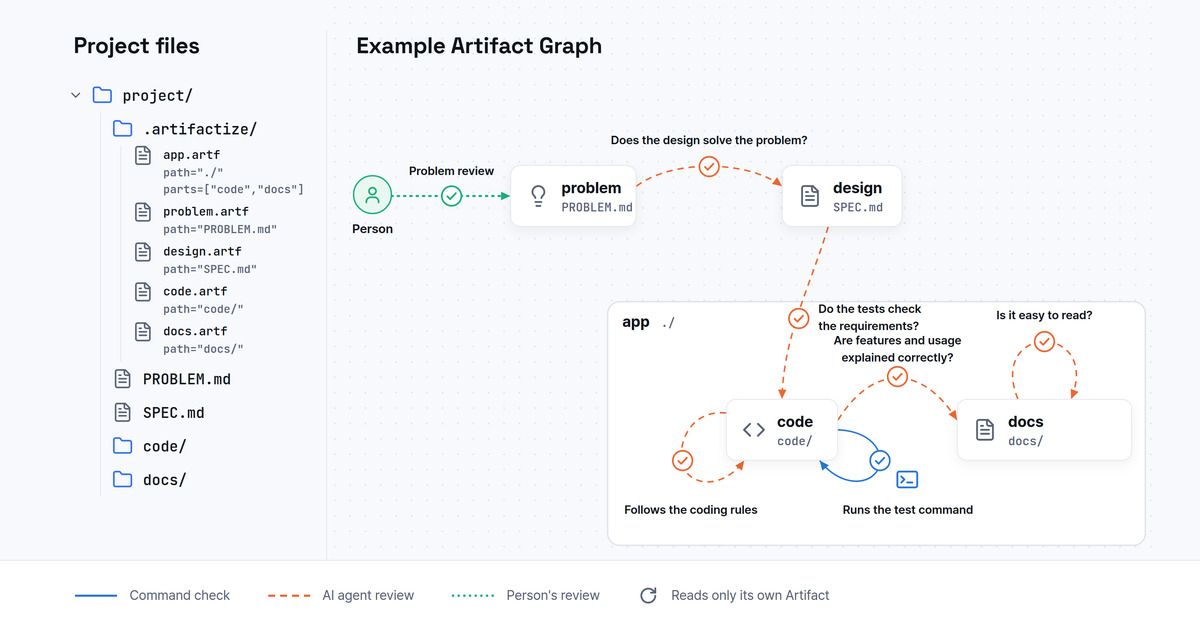
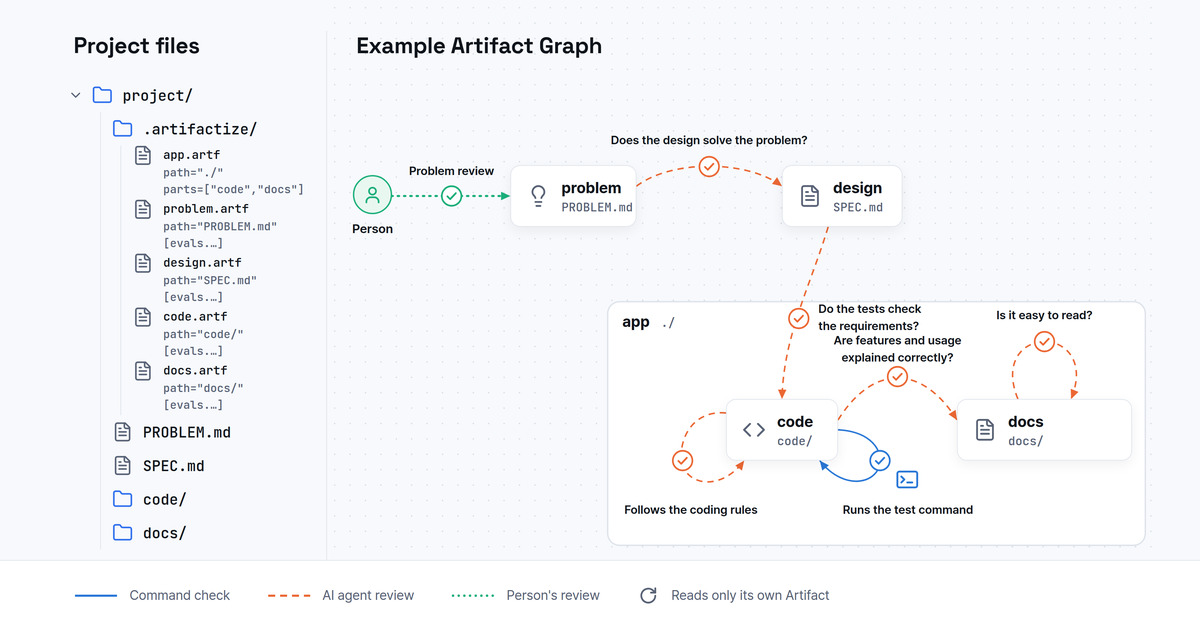
Dogfood round 13: a Run's saved repository path is read back with its own decoding everywhere; the graph example marks where each file's checks are declared

Changed region(s): [[0.0925, 0.3016, 0.2158, 0.8746]]

diff --git a/assets/others/graph-example.html b/assets/others/graph-example.html
@@ -91,7 +91,7 @@
   .tree .file { color: var(--dim); }
   .tree .artf { color: var(--text); height: 27px; font-size: 17px; }
   .tree .artf .file { color: var(--dim); }
-  .tree .definition { margin-bottom: 6px; }
+  .tree .definition { margin-bottom: 2px; }
   .tree .definition code { flex-basis: 100%; margin-left: 44px; color: var(--dim); font: 500 16px/24px var(--mono); }
   .tree svg { width: 30px; height: 30px; flex: none; }
 
@@ -213,10 +213,10 @@
           <li><span><svg class="folder"><use href="#i-folder"/></svg>.artifactize/</span>
             <ul>
               <li class="definition"><span class="artf"><svg class="file"><use href="#i-file"/></svg>app.artf</span><code>path="./"</code><code>parts=["code","docs"]</code></li>
-              <li class="definition"><span class="artf"><svg class="file"><use href="#i-file"/></svg>problem.artf</span><code>path="PROBLEM.md"</code></li>
-              <li class="definition"><span class="artf"><svg class="file"><use href="#i-file"/></svg>design.artf</span><code>path="SPEC.md"</code></li>
-              <li class="definition"><span class="artf"><svg class="file"><use href="#i-file"/></svg>code.artf</span><code>path="code/"</code></li>
-              <li class="definition"><span class="artf"><svg class="file"><use href="#i-file"/></svg>docs.artf</span><code>path="docs/"</code></li>
+              <li class="definition"><span class="artf"><svg class="file"><use href="#i-file"/></svg>problem.artf</span><code>path="PROBLEM.md"</code><code>[evals.…]</code></li>
+              <li class="definition"><span class="artf"><svg class="file"><use href="#i-file"/></svg>design.artf</span><code>path="SPEC.md"</code><code>[evals.…]</code></li>
+              <li class="definition"><span class="artf"><svg class="file"><use href="#i-file"/></svg>code.artf</span><code>path="code/"</code><code>[evals.…]</code></li>
+              <li class="definition"><span class="artf"><svg class="file"><use href="#i-file"/></svg>docs.artf</span><code>path="docs/"</code><code>[evals.…]</code></li>
             </ul>
           </li>
           <li><span><svg class="file"><use href="#i-file"/></svg>PROBLEM.md</span></li>

diff --git a/crates/artifactize-core/src/store/reader.rs b/crates/artifactize-core/src/store/reader.rs
@@ -324,9 +324,14 @@ impl Cache {
     ) -> Result<Option<(RunView, Vec<RequestView>)>, Error> {
         let saved = self.selected.take().filter(|saved| &saved.run.id == id);
         // The state's text only when its revision moved, the definitions only on opening.
-        type RunRow = (String, i64, Option<String>, Option<String>);
+        type RunRow = (std::path::PathBuf, i64, Option<String>, Option<String>);
         let decode = |row: &rusqlite::Row<'_>| -> rusqlite::Result<RunRow> {
-            Ok((row.get(0)?, row.get(1)?, row.get(2)?, row.get(3)?))
+            Ok((
+                super::path_column(row, 0)?,
+                row.get(1)?,
+                row.get(2)?,
+                row.get(3)?,
+            ))
         };
         let (repo, revision, data, definitions) = match &saved {
             Some(saved) => db.query_row(
@@ -344,8 +349,7 @@ impl Cache {
         }
         .optional()?
         .ok_or_else(|| Error::Invalid("Run not found.".into()))?;
-        outside_workspace(Path::new(&repo), state)
-            .map_err(|error| Error::Invalid(error.to_string()))?;
+        outside_workspace(&repo, state).map_err(|error| Error::Invalid(error.to_string()))?;
         let (mut selected, state_changed) = match (saved, data) {
             (Some(saved), None) => (saved, false),
             // The Run's state changed; its definitions did not.

diff --git a/crates/artifactize-core/src/store/requests.rs b/crates/artifactize-core/src/store/requests.rs
@@ -326,10 +326,9 @@ pub(crate) async fn read_request_repo_by_id(
                 .query_row(
                     "SELECT r.repo FROM requests q JOIN runs r ON r.id=q.run_id WHERE q.id=?",
                     [&id],
-                    |row| row.get::<_, String>(0),
+                    |row| super::path_column(row, 0),
                 )
-                .optional()?
-                .map(std::path::PathBuf::from);
+                .optional()?;
             transaction.commit()?;
             if let Some(repo) = &repo {
                 crate::workspace::outside_workspaces(std::iter::once(repo.as_path()), &state)
@@ -438,7 +437,8 @@ async fn read_with_repo(
                         }
                     }
                 };
-                let repo = std::path::PathBuf::from(repo);
+                let repo = artifactize_tools::files::path_from_text(&repo)
+                    .map_err(|error| Error::Invalid(error.to_string()))?;
                 repos.push(repo.clone());
                 indexes.insert(id, (index, repo));
             }

diff --git a/crates/artifactize-core/src/store/run_read.rs b/crates/artifactize-core/src/store/run_read.rs
@@ -60,13 +60,13 @@ async fn snapshot<T: Send + 'static>(
 
 /// The Run with its definitions, but none of its requests.
 fn saved_run(db: &rusqlite::Connection, state: &Path, id: &RunId) -> Result<Run, Error> {
-    let saved: Option<(String, String)> = db
+    let saved: Option<(std::path::PathBuf, String)> = db
         .query_row("SELECT repo,data FROM runs WHERE id=?", [id], |row| {
-            Ok((row.get(0)?, row.get(1)?))
+            Ok((super::path_column(row, 0)?, row.get(1)?))
         })
         .optional()?;
     let (repo, data) = saved.ok_or_else(|| Error::Invalid("Run not found.".into()))?;
-    outside_workspace(Path::new(&repo), state).map_err(|e| Error::Invalid(e.to_string()))?;
+    outside_workspace(&repo, state).map_err(|e| Error::Invalid(e.to_string()))?;
     let mut run: Run =
         decode("run", id.as_str(), &data).map_err(|error| Error::Invalid(error.to_string()))?;
     run.definitions = super::run_record::definitions(db, id)?

diff --git a/crates/artifactize-core/src/store/prune.rs b/crates/artifactize-core/src/store/prune.rs
@@ -134,7 +134,8 @@ pub fn prune(
     };
     let mut eligible = Vec::new();
     for (id, repo, data, status) in runs {
-        let repo = workspace::canonical_target(Path::new(&repo)).map_err(|e| e.to_string())?;
+        let repo = artifactize_tools::files::path_from_text(&repo).map_err(|e| e.to_string())?;
+        let repo = workspace::canonical_target(&repo).map_err(|e| e.to_string())?;
         workspace::outside_workspace(&repo, &state).map_err(|e| e.to_string())?;
         repositories.push(repo);
         let Some(run) = super::unreadable::evidence::<super::Run>("run", &data) else {

diff --git a/crates/artifactize-core/src/store/removed.rs b/crates/artifactize-core/src/store/removed.rs
@@ -53,7 +53,7 @@ async fn removed_repositories(state: &Path) -> Result<Vec<PathBuf>, String> {
             }
             let repos = transaction
                 .prepare("SELECT DISTINCT r.repo FROM requests q JOIN runs r ON r.id=q.run_id WHERE q.status IN ('WAITING_HUMAN','DEFERRED')")?
-                .query_map([], |row| row.get::<_, String>(0).map(PathBuf::from))?
+                .query_map([], |row| super::path_column(row, 0))?
                 .collect::<Result<Vec<_>, _>>()?;
             transaction.commit()?;
             Ok(repos)
